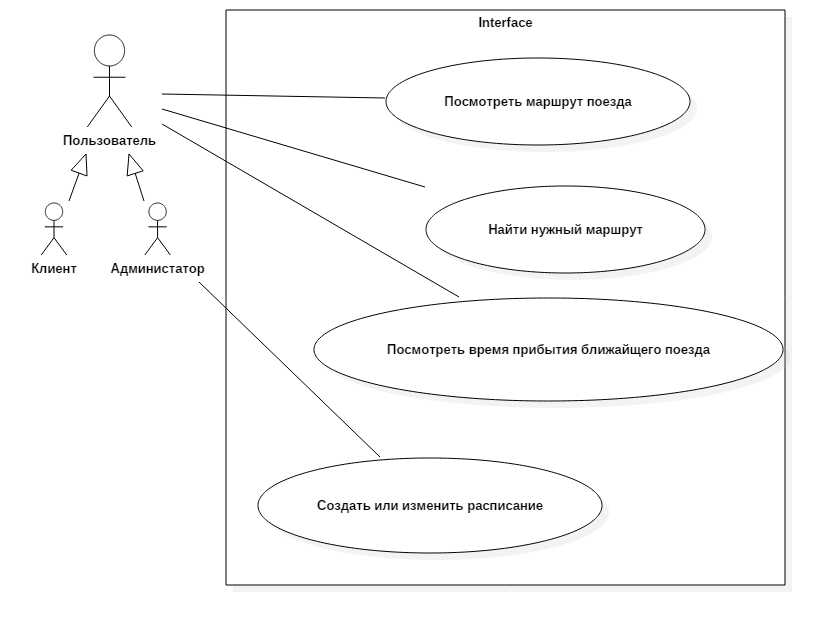
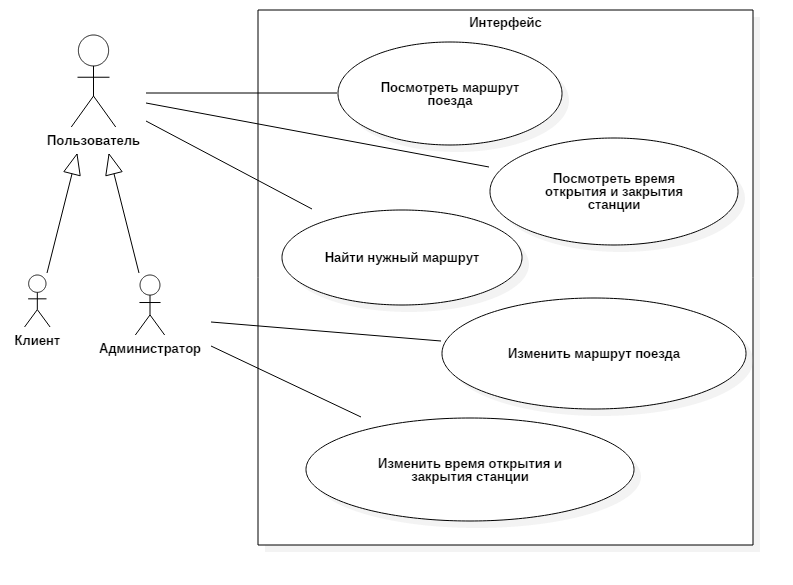
Изменил README

diff --git a/README.md b/README.md
@@ -4,15 +4,15 @@
 
 Реализовать проект "Транспортное расписание" 
 
-"Транспортное расписание" - программа позволяющая создать, редактировать и использовать расписание поездов метрополитена города Санкт-Петербурга
+"Транспортное расписание" - программа позволяющая создать, редактировать и использовать расписание для поездов метрополитена
 
 ## Концепция (vision statement)
 
-Программа должна предоставлять обычному пользователю возможность просмотра расписания поездов и помочь найти способ проезда до нужной станции. У администратора в отличие от обычного пользователя должны присутствовать права на создание/изменение расписания. 
+Программа должна предоставлять обычному пользователю возможность просмотра маршрута поездов, показывать время начала и окончания работы станций и помочь найти способ проезда до нужной станции. У администратора в отличие от обычного пользователя должны присутствовать права на редактирования данных. 
 
 ## Минимально работоспособный продукт (Minimum viable product)
 
-Программа, которая позволяет создать, изменить и просмотреть расписание, оформленное в любом понятном для пользователя виде.
+Программа, которая позволяет обычному пользователю просмотерть маршруты поездов, время начала и окончания работы станций, а администратору редактировать эту информацию
 
 ## Диаграмма прецедентов использования
 ![UseCaseDiagram is not displayed](report/Diagrams/UseCaseDiagram.png)
